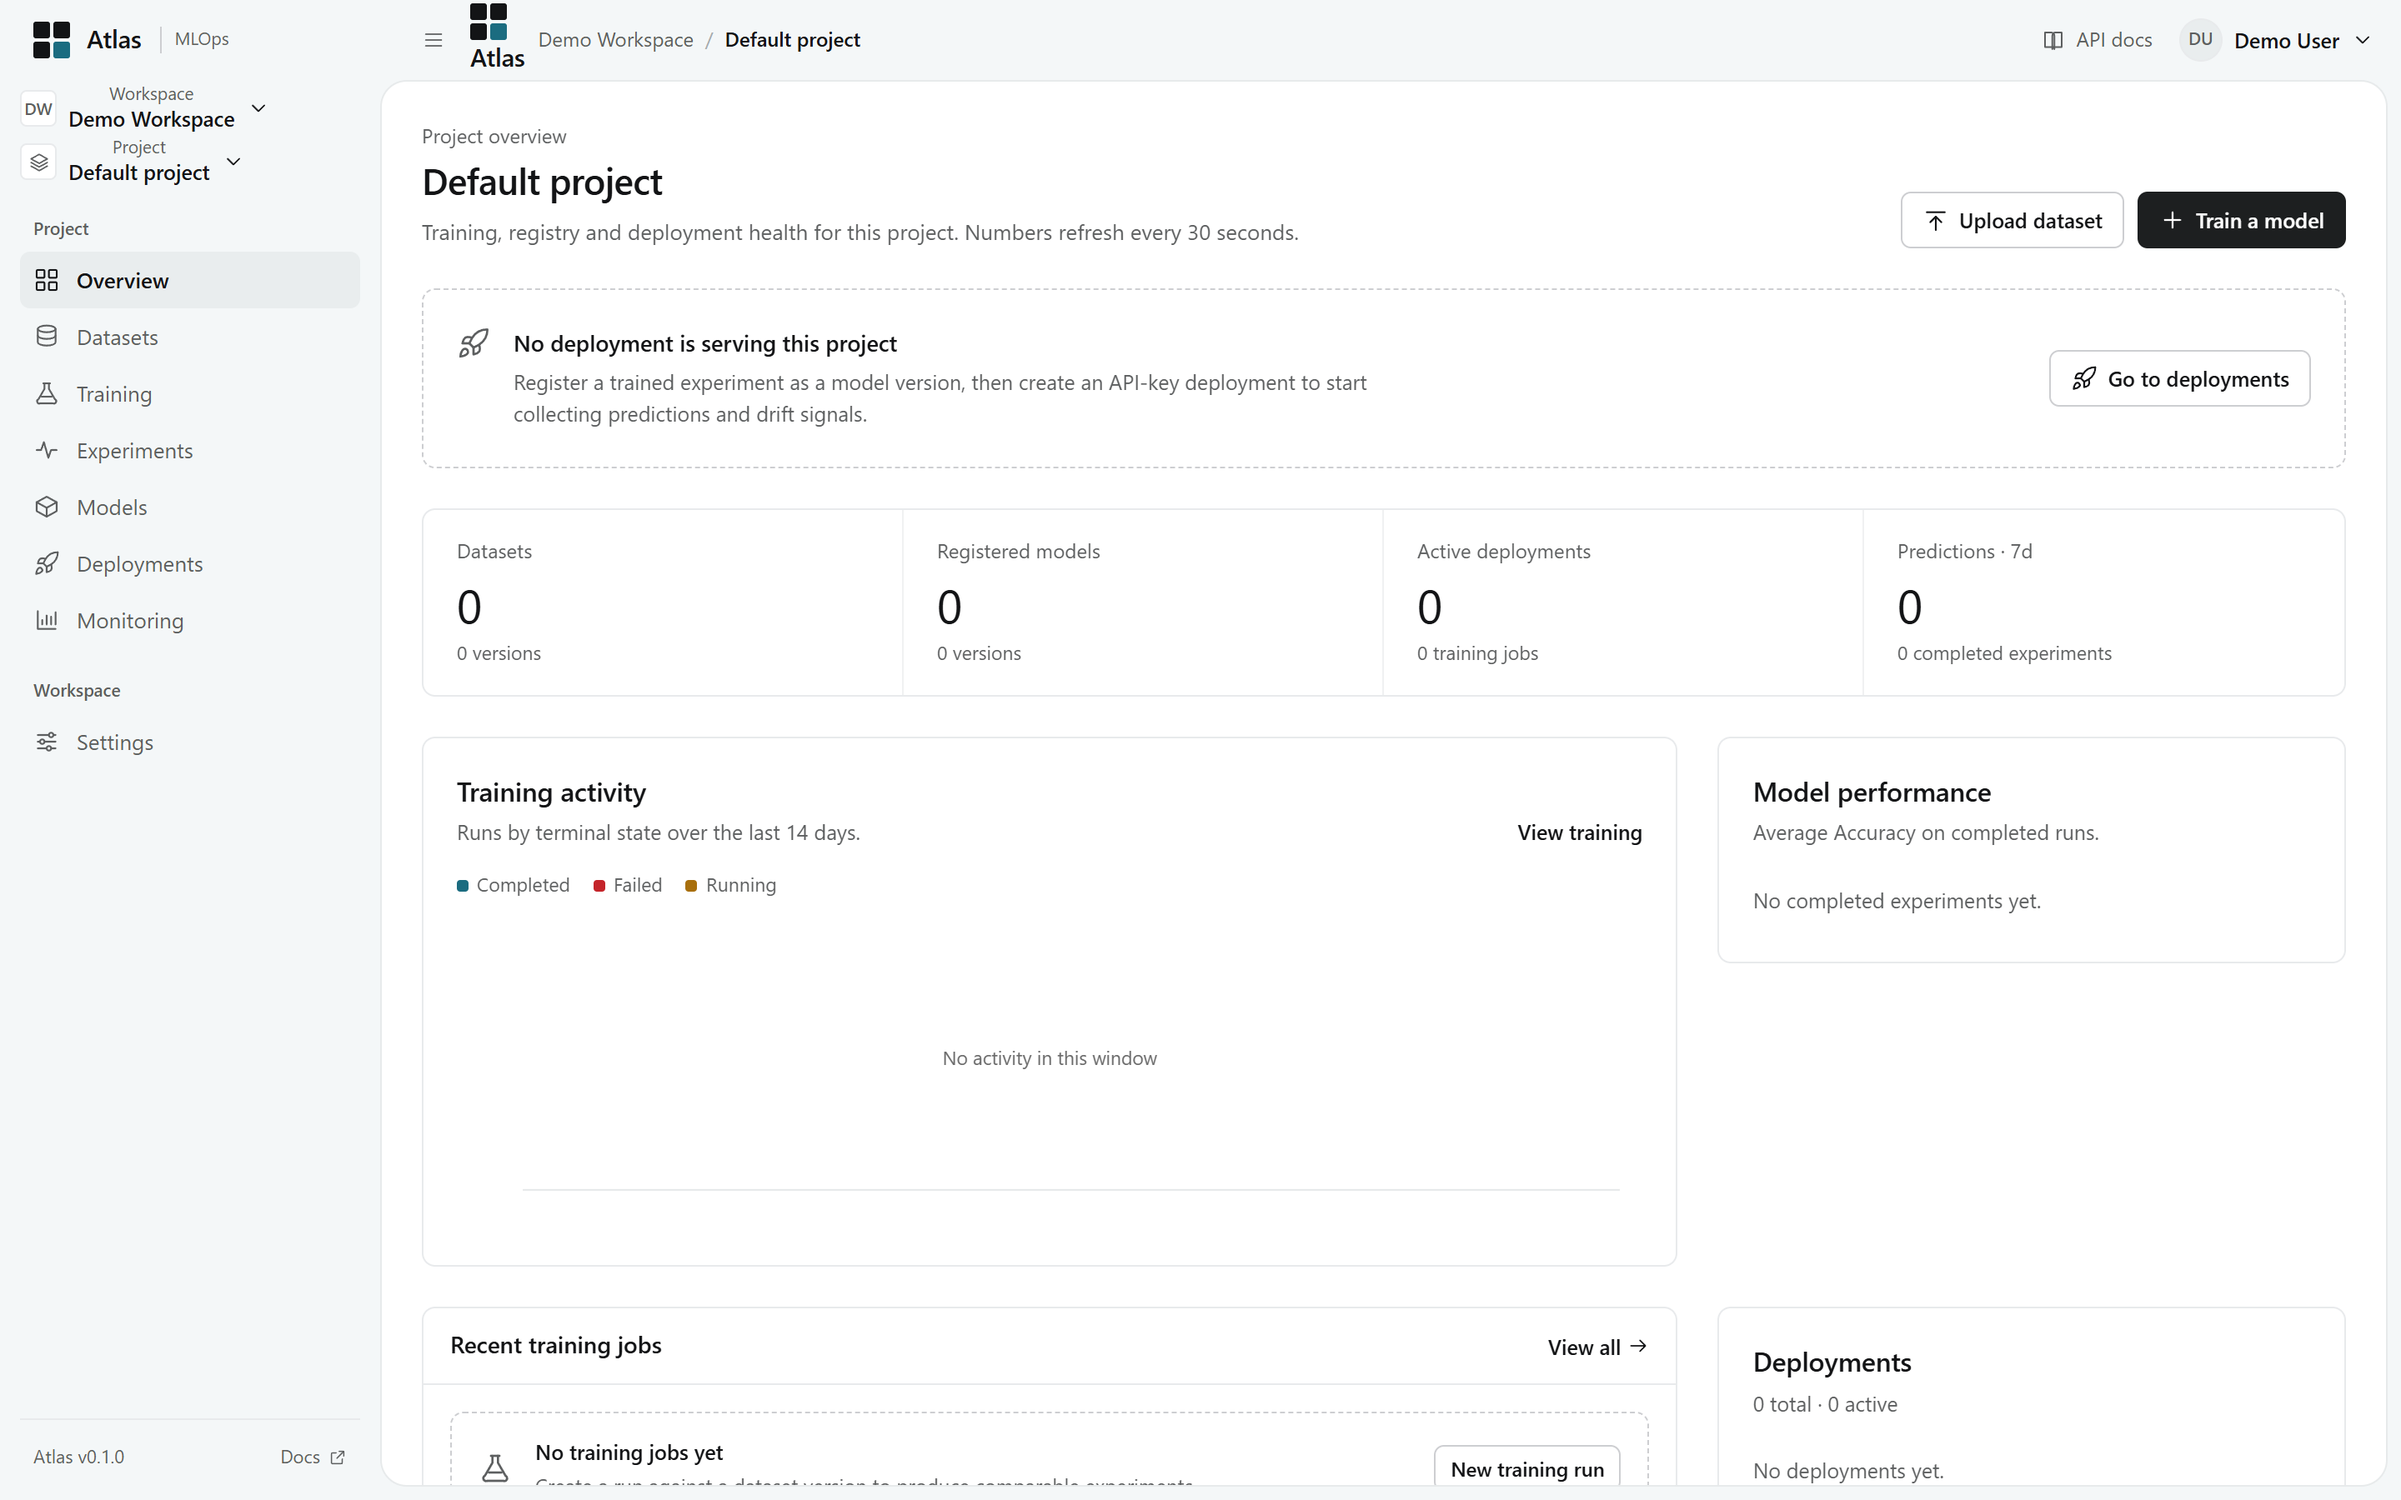
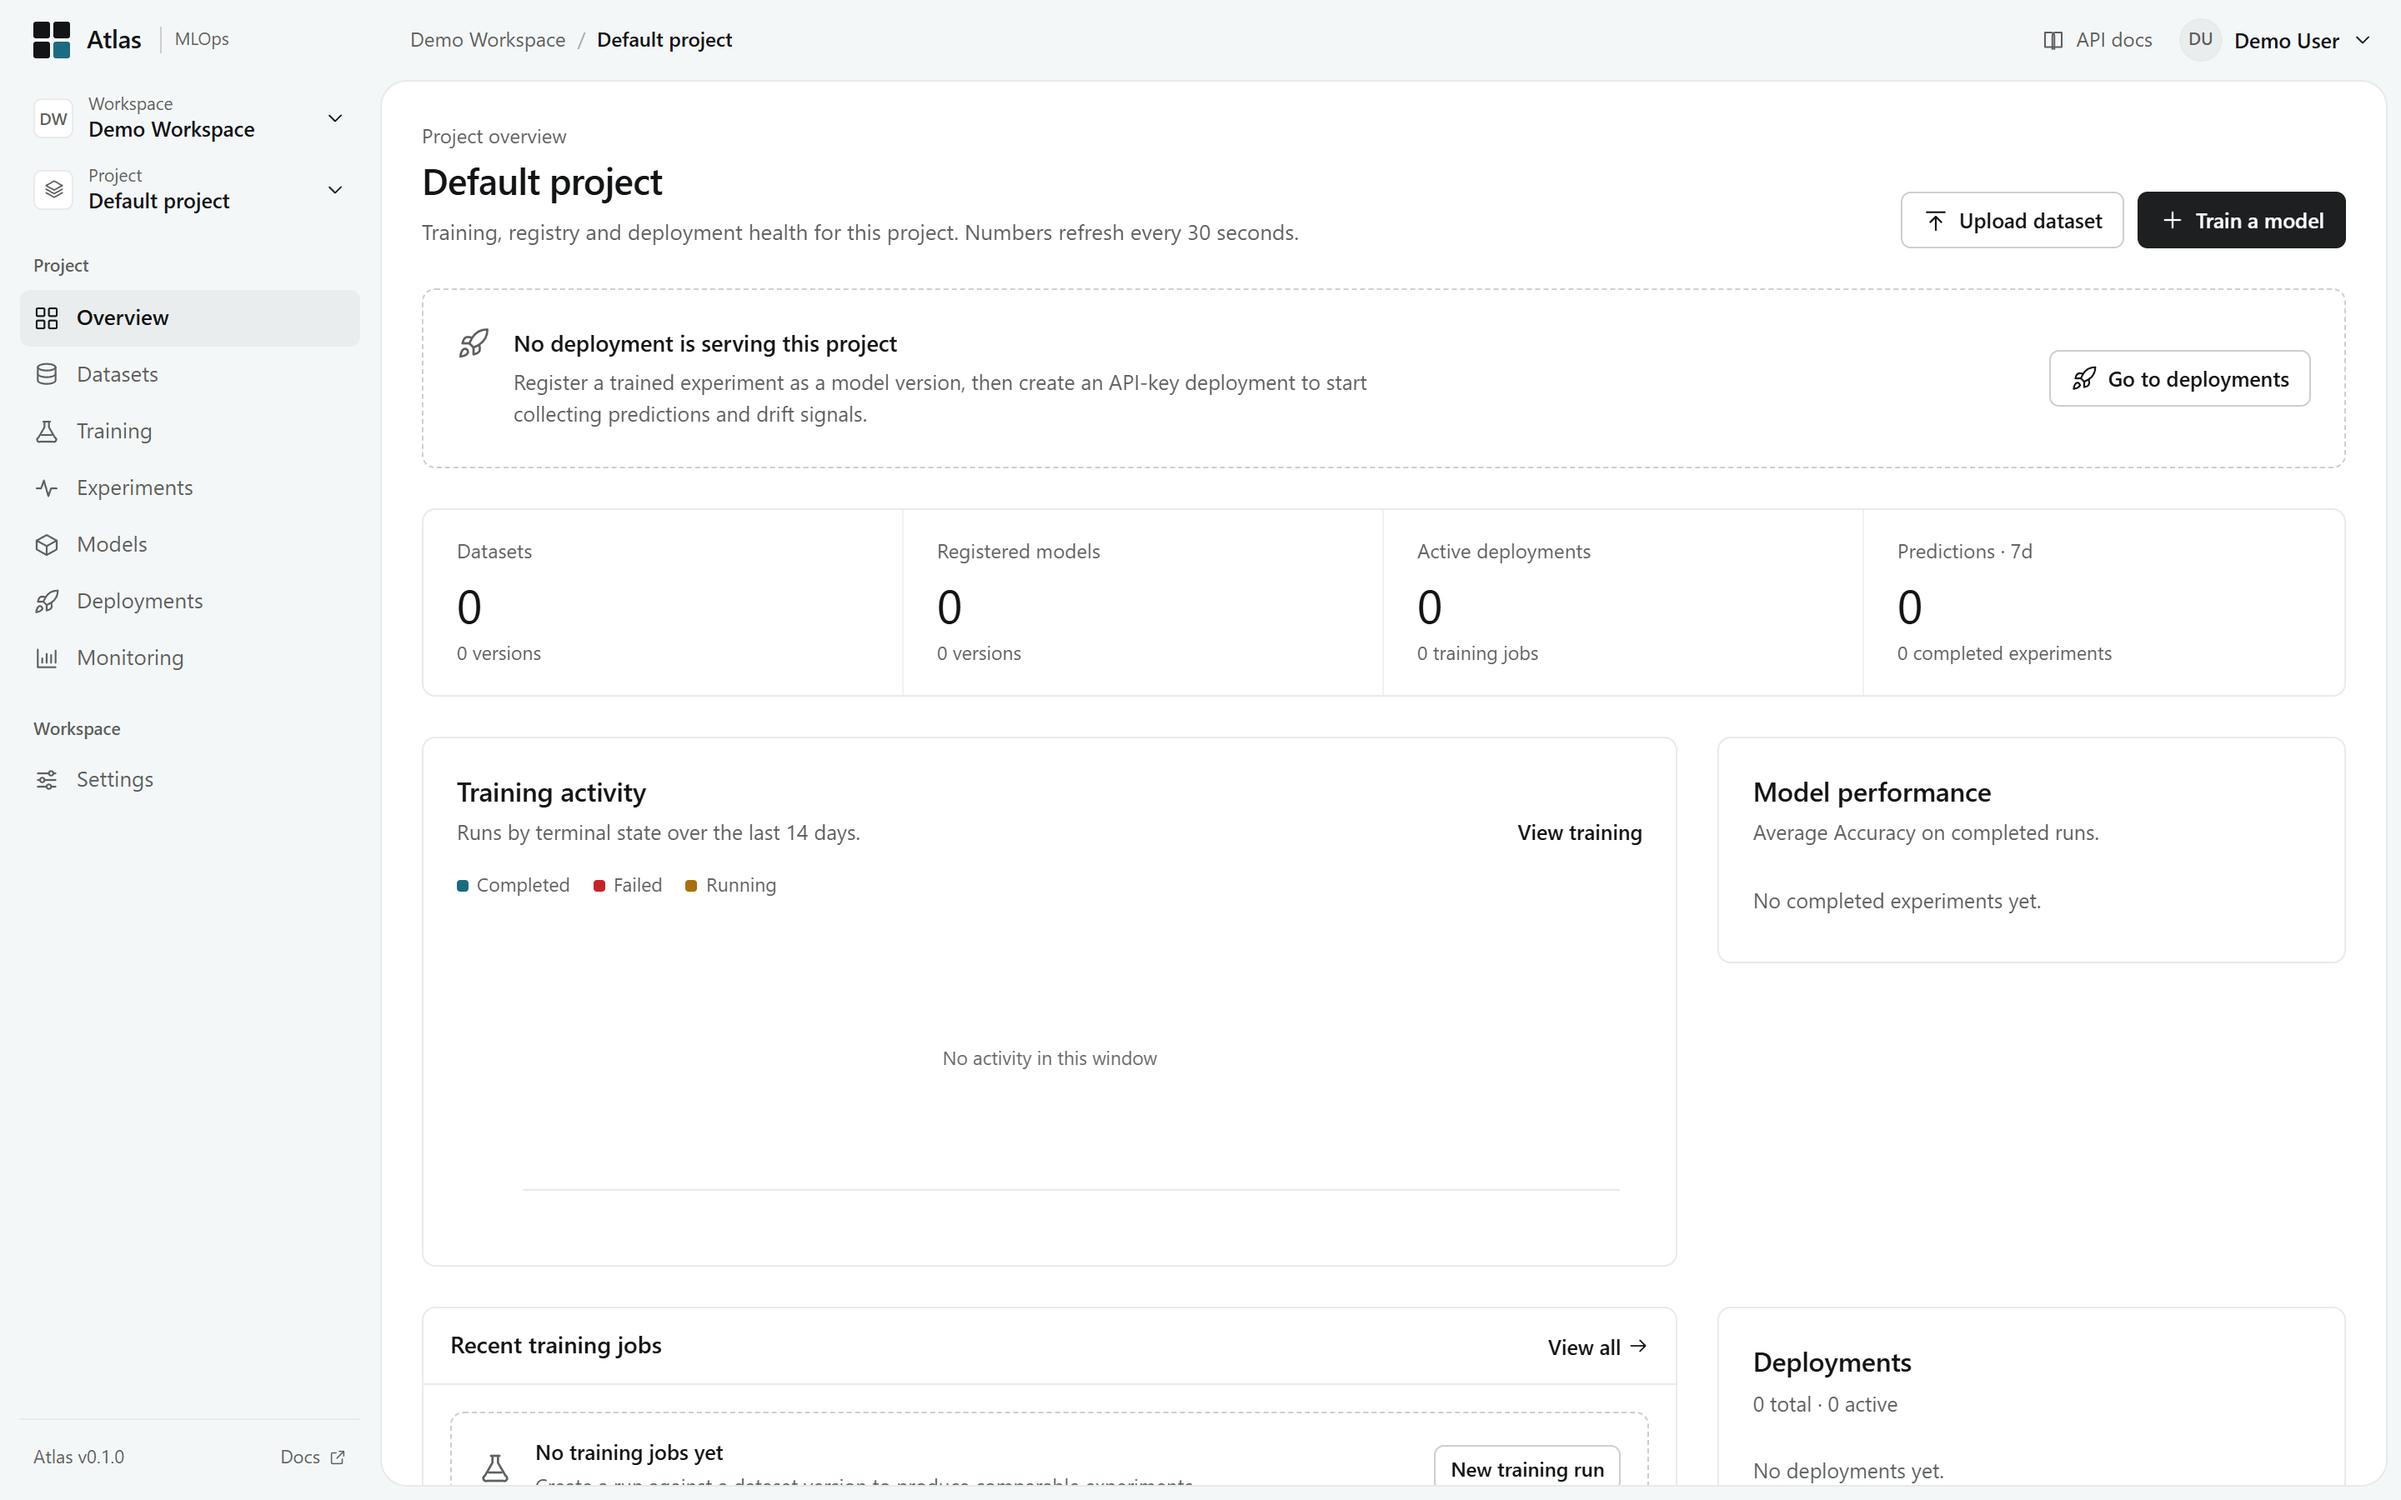
fix(frontend): polish navigation layout and dataset upload dialog

Changed region(s): [[0.0, 0.1556, 0.0938, 0.5289], [0.0, 0.0622, 0.0938, 0.1556], [0.1875, 0.0, 0.3438, 0.0622]]

diff --git a/frontend/src/styles.css b/frontend/src/styles.css
@@ -251,28 +251,31 @@ pre {
   gap: 2px;
 }
 
-.context-button {
+.context-switch {
+  display: block;
+  width: 100%;
+}
+
+.context-switch .dropdown-trigger {
   display: flex;
   align-items: center;
   gap: 9px;
   width: 100%;
-  border: 0;
-  background: transparent;
-  border-radius: 6px;
+  min-height: 38px;
   padding: 6px 8px;
-  min-height: 34px;
+  border-radius: 6px;
   text-align: left;
 }
 
-.context-button:hover,
-.context-button[aria-expanded="true"] {
+.context-switch .dropdown-trigger:hover,
+.context-switch .dropdown-trigger[aria-expanded="true"] {
   background: var(--active);
 }
 
 .context-avatar {
-  width: 22px;
-  height: 22px;
-  border-radius: 4px;
+  width: 24px;
+  height: 24px;
+  border-radius: 5px;
   background: var(--surface);
   border: 1px solid var(--border);
   display: inline-flex;
@@ -282,11 +285,16 @@ pre {
   font-weight: 600;
   flex: none;
   color: var(--muted);
+  line-height: 1;
 }
 
 .context-text {
+  display: flex;
+  flex-direction: column;
+  gap: 1px;
   min-width: 0;
   flex: 1;
+  text-align: left;
 }
 
 .context-text span {
@@ -303,10 +311,10 @@ pre {
   white-space: nowrap;
   overflow: hidden;
   text-overflow: ellipsis;
-  line-height: 1.35;
+  line-height: 1.25;
 }
 
-.context-button .icon {
+.context-switch .dropdown-trigger > .icon {
   color: var(--muted);
   flex: none;
 }
@@ -528,8 +536,25 @@ pre {
   padding: var(--pad);
 }
 
-.mobile-menu-button {
+.icon-button.mobile-menu-button {
   display: none;
+}
+
+.mobile-brand {
+  display: none;
+  align-items: center;
+  gap: 8px;
+  flex: none;
+  color: var(--text);
+}
+
+.mobile-brand .logo-mark {
+  width: 18px;
+  height: 18px;
+}
+
+.mobile-brand .brand-name {
+  font-size: 13.5px;
 }
 
 .sidebar-scrim {
@@ -994,6 +1019,68 @@ pre {
   transform: translateY(-50%);
   pointer-events: none;
   color: var(--muted);
+}
+
+.dropzone {
+  display: flex;
+  flex-direction: column;
+  align-items: center;
+  justify-content: center;
+  gap: 3px;
+  width: 100%;
+  padding: 18px 16px;
+  border: 1px dashed var(--control);
+  border-radius: var(--radius-control);
+  background: var(--raised);
+  text-align: center;
+  transition: border-color 120ms ease, background-color 120ms ease;
+}
+
+.dropzone:hover {
+  border-color: var(--accent);
+  background: var(--accent-softer);
+}
+
+.dropzone.is-dragging {
+  border-color: var(--accent);
+  background: var(--accent-soft);
+}
+
+.dropzone .icon {
+  color: var(--muted);
+  margin-bottom: 2px;
+}
+
+.dropzone:hover .icon,
+.dropzone.is-dragging .icon {
+  color: var(--accent);
+}
+
+.dropzone.has-file {
+  border-style: solid;
+  border-color: var(--border);
+  background: var(--surface);
+}
+
+.dropzone-title {
+  max-width: 100%;
+  font-size: 13px;
+  font-weight: 500;
+  color: var(--text);
+  overflow: hidden;
+  text-overflow: ellipsis;
+  white-space: nowrap;
+}
+
+.dropzone-hint {
+  font-size: 11.5px;
+  color: var(--muted);
+}
+
+.form-stack {
+  display: flex;
+  flex-direction: column;
+  gap: 16px;
 }
 
 .form-grid {
@@ -2744,7 +2831,11 @@ table.data tbody tr.is-selected td {
     z-index: 80;
   }
 
-  .mobile-menu-button {
+  .icon-button.mobile-menu-button {
+    display: inline-flex;
+  }
+
+  .mobile-brand {
     display: inline-flex;
   }
 

diff --git a/frontend/src/components/ui.tsx b/frontend/src/components/ui.tsx
@@ -549,7 +549,13 @@ export function Modal({
             <h2 id={titleId}>{title}</h2>
             {description ? <p id={descriptionId}>{description}</p> : null}
           </div>
-          <button type="button" className="icon-button" onClick={onClose} aria-label="Close dialog">
+          <button
+            type="button"
+            className="icon-button"
+            onClick={onClose}
+            aria-label="Close dialog"
+            data-modal-close
+          >
             <Icon name="close" size={16} />
           </button>
         </div>

diff --git a/frontend/src/components/DatasetUploadDialog.tsx b/frontend/src/components/DatasetUploadDialog.tsx
@@ -139,7 +139,7 @@ export function DatasetUploadDialog({
           </>
         ) : null}
 
-        <div>
+        <div className="field">
           <span className="field-label">File</span>
           <button
             type="button"
